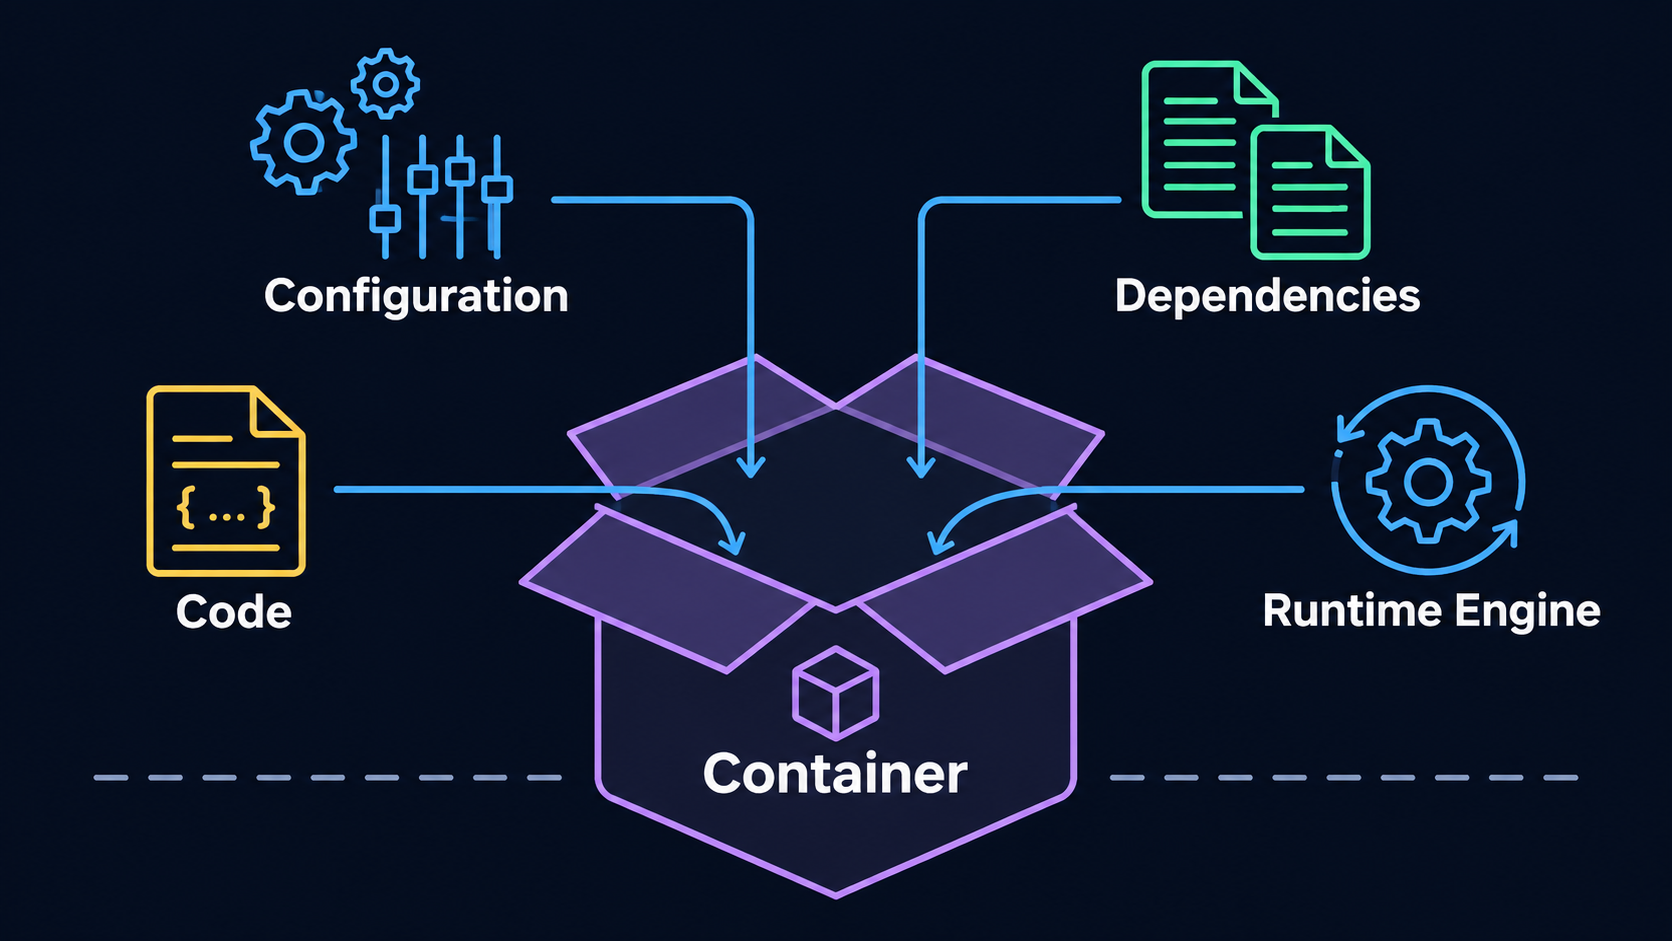
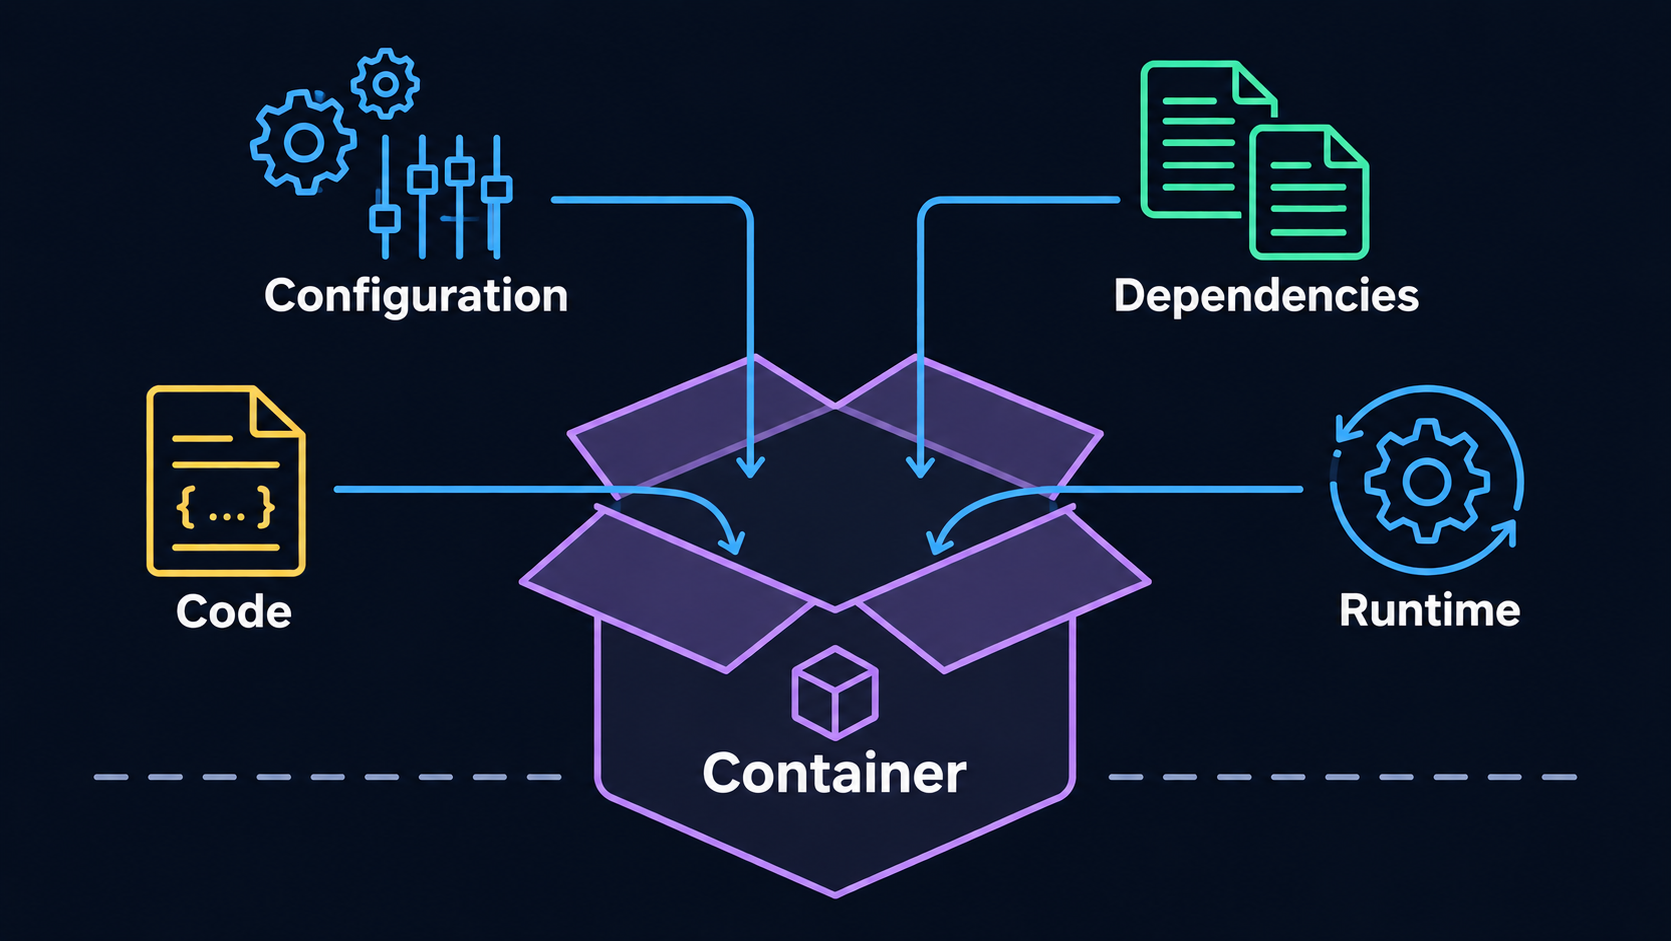
docs(docker): sync runtime-only container diagram and update lesson references

diff --git a/Docker/LESSON_ADJUSTMENTS.md b/Docker/LESSON_ADJUSTMENTS.md
@@ -2,14 +2,14 @@
 
 ## 2026-11-25 — 2.1 原圖 PNG 完整同步（最高優先級）
 
-- `Docker/assets/diagrams/02b_container_execution_environment_dark.png` 是**對話內已核准的圖片原檔**，已完整上傳至 GitHub，不是 SVG 重繪版本。此圖片畫面包括四個英文標籤 Configuration、Dependencies、Code、Runtime Engine，以及正面標示 Container 的開口紙箱；**恰好四條箭頭**。
-- `Docker/TEACHING_SCRIPT.md` 的 2.1 結尾必須直接引用此 PNG 相對路徑。舊檔 `02b_container_execution_environment_dark.svg` 不再作為教材圖資使用；任何舊段落要求改回 SVG、將 Runtime Engine 改名、或自作主張重新排版，均以本決議為準。
+- `Docker/assets/diagrams/02b_container_execution_environment_dark.png` 是**對話內已核准的圖片原檔**，已完整上傳至 GitHub，不是 SVG 重繪版本。此圖片畫面包括四個英文標籤 Configuration、Dependencies、Code、Runtime，以及正面標示 Container 的開口紙箱；**恰好四條箭頭**。此版僅修改 Runtime Engine 標籤為 Runtime，保留原本配置。
+- `Docker/TEACHING_SCRIPT.md` 的 2.1 結尾必須直接引用此 PNG 相對路徑。舊檔 `02b_container_execution_environment_dark.svg` 不再作為教材圖資使用；不可改回 SVG，也不可未經同意另外重畫版面；目前正式標籤為 Runtime。
 - 保持學員版圖片原貌；GitHub 完成狀態不等於 HTML 同步，後續改版 HTML 時需確認圖片路徑。
 
 
 > 狀態：**Lesson 01 已依四個 Chapter／十三個 Section 更新逐字稿。全套規劃七堂 Lesson；正式 HTML、Learning Map 與圖資仍須另行驗證／更新。**
 >
-> 最近修訂：2026-11-25（2.1 已同步使用者核准的 PNG 原圖至 GitHub，停止使用舊版 SVG）
+> 最近修訂：2026-11-25（2.1 正式 PNG 僅將 Runtime Engine 標籤改為 Runtime；已同步 GitHub）
 >
 > Repository：`c0004512000/Learning`，主要目錄：`Docker/`
 >
@@ -17,7 +17,7 @@
 
 ## 2026-11-25 — 2.1 新圖與 3.4 One Image → Multiple Containers（優先適用）
 
-- **2.1 正式圖 `02b_container_execution_environment_dark.png`**：**以對話中使用者認可的生成圖片原檔為唯一正式版本**。Configuration、Dependencies、Code、Runtime Engine 四個圖示依原構圖匯入開口紙箱，紙箱正面標示 Container；保持四條箭頭、暗色系及英文標籤，不以另外重繪的 SVG 取代。此圖已在 GitHub 上傳原始 PNG 位元組，並由 Teaching Script 的 2.1 結尾引用。
+- **2.1 正式圖 `02b_container_execution_environment_dark.png`**：**以對話中使用者認可的生成圖片原檔為唯一正式版本**。Configuration、Dependencies、Code、Runtime 四個圖示依原構圖匯入開口紙箱，紙箱正面標示 Container；保持四條箭頭、暗色系及英文標籤，不以另外重繪的 SVG 取代。此圖已在 GitHub 上傳原始 PNG 位元組，並由 Teaching Script 的 2.1 結尾引用。
 - **3.4 現有圖 `04_dockerfile_image_container_flow_dark.svg`**：一份 Dockerfile Build 一份唯讀 Image，同一 Image 分叉建立 **Container A／B／C**，每個 Container 有自己的 **Main Process A／B／C**。箭頭須真正連接每個 Container；不暗示每個 Container 只能有單一 Process，或各有獨立 Linux Kernel。
 - **視覺規格**：沿用深色底、藍色 Dockerfile、綠色 Image、紫色 Container；圖片內只用英文技術標籤，不加教學旁白。SVG 位於 `Docker/assets/diagrams/`，以 Markdown 相對路徑嵌入 `TEACHING_SCRIPT.md`；HTML 尚未修改。
 - **實際狀態**：兩張 SVG 已在 GitHub 提交；Teaching Script 已新增 2.1 圖片並沿用 3.4 原圖片路徑。兩份 MD 會持續記錄圖資規格與核准狀態。
@@ -64,7 +64,7 @@
 |---|---|---|
 | [`01_program_vs_process_dark.svg`](assets/diagrams/01_program_vs_process_dark.svg) | 1.1 | 說明一份 Program 可產生多個 Process |
 | [`02_shared_vm_vs_many_vms_dark.svg`](assets/diagrams/02_shared_vm_vs_many_vms_dark.svg) | 1.3 | 比較共用一台 VM／一服務一台 VM 的維運取捨 |
-| [`02b_container_execution_environment_dark.png`](assets/diagrams/02b_container_execution_environment_dark.png) | **2.1 結尾** | 使用者核准之 PNG 原圖；Configuration／Dependencies／Code／Runtime Engine 各一條箭頭匯入 Container 開口紙箱 |
+| [`02b_container_execution_environment_dark.png`](assets/diagrams/02b_container_execution_environment_dark.png) | **2.1 結尾** | 使用者核准之 Dark Mode PNG（Runtime 標籤版）；Configuration／Dependencies／Code／Runtime 各一條箭頭匯入 Container 開口紙箱 |
 | [`03_vm_vs_container_architecture_dark.svg`](assets/diagrams/03_vm_vs_container_architecture_dark.svg) | 2.3 | 定義 Container 之後，對照 Guest Kernel 與共享 Host Kernel |
 | [`04_dockerfile_image_container_flow_dark.svg`](assets/diagrams/04_dockerfile_image_container_flow_dark.svg) | 3.4 | Dockerfile → one Image → Container A／B／C；各有獨立 Main Process，不代表容器僅能有單一 Process |
 | [`05_build_once_run_many_deploy_many_dark.svg`](assets/diagrams/05_build_once_run_many_deploy_many_dark.svg) | 4.3 | 兩個 Container 的示範結束後，呼應收尾概念 |

diff --git a/Docker/TEACHING_SCRIPT.md b/Docker/TEACHING_SCRIPT.md
@@ -8,7 +8,7 @@
 >
 > **課程結構決議（2026-11-22）：**取消獨立的 Why Containerization，原八堂調整為七堂。Session 01 整合必要的 Why；Session 02 改為 How Containers Work。此決議不代表後續尚未確認的口頭講稿已完成。
 >
-> **最近修訂：**2026-11-25（2.1 改用使用者於對話中確認的 PNG 原圖；保留四條箭頭與開口紙箱構圖）
+> **最近修訂：**2026-11-25（2.1 PNG 將 Runtime Engine 改為 Runtime；其餘構圖與教學位置不變）
 
 ---
 
@@ -117,7 +117,7 @@
 
 <!-- 圖 02B｜Section 2.1｜Dark Mode PNG｜插入時機：完成 Isolation 定義後；使用對話中核准的原圖 PNG，四條箭頭匯入標示 Container 的紙箱 -->
 
-![Container open box diagram: Configuration, Dependencies, Code, Runtime Engine](assets/diagrams/02b_container_execution_environment_dark.png)
+![Container open box diagram: Configuration, Dependencies, Code, Runtime](assets/diagrams/02b_container_execution_environment_dark.png)
 
 
 #### 2.2 What Is a Container?
